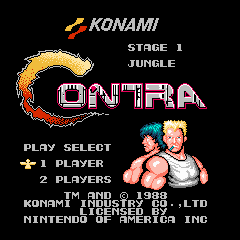
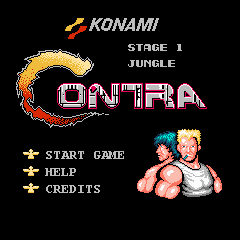
Help & credits screens

Changed region(s): [[0.0875, 0.4958, 0.9333, 0.9333], [0.7583, 0.9042, 0.875, 0.9333]]

diff --git a/VJ01-contra/Scene.cpp b/VJ01-contra/Scene.cpp
@@ -39,11 +39,13 @@ void Scene::init()
 
 	switch (level) {
 	case START:
-		texture.loadFromFile("images/startscreen.png", TEXTURE_PIXEL_FORMAT_RGBA);
-		texture.setMinFilter(GL_NEAREST);
-		texture.setMagFilter(GL_NEAREST);
-		sprite = Sprite::createSprite(glm::ivec2(STARTSCREEN_WIDTH, STARTSCREEN_HEIGHT), glm::vec2(1.0f, 1.0f), &texture, &texProgram);
-		projection = glm::ortho(0.0f, float(STARTSCREEN_WIDTH), float(STARTSCREEN_HEIGHT), 0.0f);
+		loadStaticImg("images/startscreen.png");
+		break;
+	case HELP:
+		loadStaticImg("images/helpscreen.png");
+		break;
+	case CREDITS:
+		loadStaticImg("images/creditscreen.png");
 		break;
 	case LEVEL1:
 		map = TileMap::createTileMap("levels/level01.txt", glm::vec2(SCREEN_X, SCREEN_Y), texProgram);
@@ -58,6 +60,14 @@ void Scene::init()
 	currentTime = 0.0f;
 }
 
+void Scene::loadStaticImg(char* path) {
+	texture.loadFromFile(path, TEXTURE_PIXEL_FORMAT_RGBA);
+	texture.setMinFilter(GL_NEAREST);
+	texture.setMagFilter(GL_NEAREST);
+	sprite = Sprite::createSprite(glm::ivec2(STARTSCREEN_WIDTH, STARTSCREEN_HEIGHT), glm::vec2(1.0f, 1.0f), &texture, &texProgram);
+	projection = glm::ortho(0.0f, float(STARTSCREEN_WIDTH), float(STARTSCREEN_HEIGHT), 0.0f);
+}
+
 void Scene::update(int deltaTime)
 {
 	currentTime += deltaTime;
@@ -66,6 +76,20 @@ void Scene::update(int deltaTime)
 	case START:
 		if (Game::instance().getKey('\r')) {
 			level = LEVEL1;
+			init();
+		} else if (Game::instance().getKey('h')) {
+			level = HELP;
+			init();
+		} else if (Game::instance().getKey('c')) {
+			level = CREDITS;
+			init();
+		}
+		break;
+	case HELP:
+	case CREDITS:
+		if (Game::instance().getKey('\r')) {
+			Game::instance().keyReleased('\r');
+			level = START;
 			init();
 		}
 		break;
@@ -92,6 +116,8 @@ void Scene::render()
 	texProgram.setUniform2f("texCoordDispl", 0.f, 0.f);
 	switch (level) {
 	case START:
+	case HELP:
+	case CREDITS:
 		sprite->render();
 		break;
 	case LEVEL1:

diff --git a/VJ01-contra/Scene.h b/VJ01-contra/Scene.h
@@ -11,7 +11,7 @@
 // Scene contains all the entities of our game.
 // It is responsible for updating and render them.
 
-enum Level { START, LEVEL1 };
+enum Level { START, HELP, CREDITS, LEVEL1 };
 
 class Scene
 {
@@ -26,6 +26,7 @@ public:
 
 private:
 	void initShaders();
+	void loadStaticImg(char* path);
 
 private:
 	Level level;
